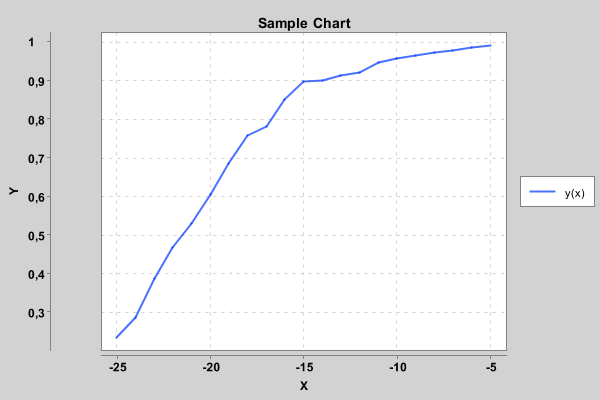
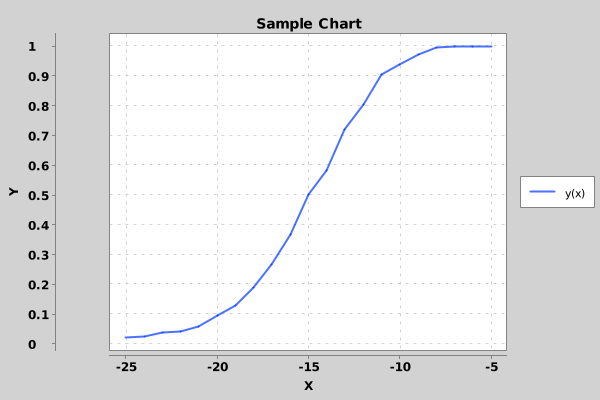
funzionerebbe

diff --git a/src/it/uniroma3/tesi/Graphics.java b/src/it/uniroma3/tesi/Graphics.java
@@ -3,14 +3,14 @@ package it.uniroma3.tesi;
 import org.apache.commons.math3.complex.Complex;
 
 import it.uniroma3.tesi.generatori.Generatore;
-import javafx.application.Application;
-import javafx.scene.Scene;
-import javafx.scene.chart.CategoryAxis;
-import javafx.scene.chart.LineChart;
-import javafx.scene.chart.NumberAxis;
-import javafx.scene.chart.XYChart;
-import javafx.scene.chart.XYChart.Series;
-import javafx.stage.Stage;
+//import javafx.application.Application;
+//import javafx.scene.Scene;
+//import javafx.scene.chart.CategoryAxis;
+//import javafx.scene.chart.LineChart;
+//import javafx.scene.chart.NumberAxis;
+//import javafx.scene.chart.XYChart;
+//import javafx.scene.chart.XYChart.Series;
+//import javafx.stage.Stage;
 
 import org.apache.commons.math3.complex.Complex;
 import org.knowm.xchart.BitmapEncoder;
@@ -21,8 +21,8 @@ import org.knowm.xchart.SwingWrapper;
 
  
  
-public class Graphics extends Application {
- 
+public class Graphics /*extends Application */{
+ /*
 	double Pfa = Math.pow(10, -2);
 	double[] SNR_dB = Generatore.generaDouble(-25, -5, 1);
 	int Ps = 1;
@@ -50,10 +50,7 @@ public class Graphics extends Application {
       //  XYChart.Series series1 = new XYChart.Series();
         Series<Number, Number> series104 = new XYChart.Series();
         series104.getData().add(new XYChart.Data(SNR_dB, sim.calcolo_PdSim(segnale_PU, soglia_sim)));
-        
-     
-    
-        
+                
         Scene scene  = new Scene(lineChart,800,600);       
         lineChart.getData().add(series104);
        
@@ -64,5 +61,5 @@ public class Graphics extends Application {
  
     public static void main(String[] args) {
         launch(args);
-    }
+    }*/
 }

diff --git a/src/it/uniroma3/tesi/Simulatore.java b/src/it/uniroma3/tesi/Simulatore.java
@@ -75,8 +75,9 @@ public class Simulatore {
 
 		for(int i=0;i<SNR_dB.getDimension();i++) {
 			double[] energiaH0 = new double[this.num_prove_H0];
-			for(int j=0;j< this.num_prove_H0;j++) {             
-				Complex[] rumore = this.generazioneRumoreGaussianoUnitario();
+			for(int j=0;j< this.num_prove_H0;j++) {
+				Complex[] rumore = this.generazioneRumoreGaussianoUnitario();		
+				rumore = AlgebraVettori.moltVN(rumore, std_rumore.getEntry(i));
 				energiaH0[j] = new CalcolatoreEnergia().calcolaEnergiaSegnale(rumore);
 			}
 			double[] energiaH0sorted = new double[energiaH0.length];
@@ -84,7 +85,7 @@ public class Simulatore {
 			soglia_sim[i] = energiaH0sorted[energiaH0sorted.length-indiceSoglia];
 			System.out.println();
 		}
-		Arrays.sort(soglia_sim);   // prima lo avevo levato 
+		//Arrays.sort(soglia_sim);   // prima lo avevo levato 
 		return soglia_sim;
 	}
 
@@ -125,6 +126,7 @@ public class Simulatore {
 			double cont_sim = AlgebraVettori.cont_sim(energiaH1,soglia_sim[i]);
 			pd_sim[i] = cont_sim/num_prove_H1;
 		}
+		
 		ArrayUtils.reverse(pd_sim);
 		return pd_sim;
 	}
@@ -175,16 +177,8 @@ public class Simulatore {
 	}
 
 	public static double[] ordinamento(double[] arr) {  
-		   int n = arr.length;
-		   for(int i=0; i<n; i++) {
-		      for(int j=1; j<(n-i); j++)
-		         if(arr[j-1] > arr[j]){  
-		            double temp = arr[j-1];  
-		            arr[j-1] = arr[j];  
-		            arr[j] = temp;  
-		         }
-		   }
-		return arr;
+		   Arrays.parallelSort(arr);
+		   return arr;
 		}  
 
 	/* getters e setters */

diff --git a/src/it/uniroma3/tesi/generatori/GeneratoreGaussianoPotenzaUnitaria.java b/src/it/uniroma3/tesi/generatori/GeneratoreGaussianoPotenzaUnitaria.java
@@ -6,6 +6,7 @@ import java.util.Collections;
 
 import org.apache.commons.math3.complex.Complex;
 
+import it.uniroma3.tesi.utils.AlgebraVettori;
 import it.uniroma3.tesi.utils.Statistica;
 import it.uniroma3.tesi.utils.StatisticaComplessa;
 
@@ -24,17 +25,10 @@ public class GeneratoreGaussianoPotenzaUnitaria extends GeneratoreGaussiano {
 	@Override
 	public Complex[] generaComplex(int n_campioni) {
 		Complex[] campioniCasuali = new GeneratoreGaussiano().generaComplex(n_campioni);
-		Complex[] campioniCasualiFinali = new GeneratoreGaussiano().generaComplex(n_campioni);
-		double std = StatisticaComplessa.std(Arrays.asList(campioniCasuali));
-		for(int i=0;i<campioniCasuali.length;i++) {
-			campioniCasuali[i] = campioniCasuali[i].divide(std);
-			for(int j=0;j<campioniCasualiFinali.length;j++) {
-				campioniCasualiFinali[j]= campioniCasuali[i].multiply(std);
-			}
-			
-		}
+		double std = StatisticaComplessa.std(Arrays.asList(campioniCasuali));		
+		campioniCasuali = AlgebraVettori.divVN(campioniCasuali, std);	
 		
-		return campioniCasualiFinali;
+		return campioniCasuali;
 	}
 
 }

diff --git a/test/it/uniroma3/tesi/utils/AlgebraVettoriTest.java b/test/it/uniroma3/tesi/utils/AlgebraVettoriTest.java
@@ -1,0 +1,41 @@
+package it.uniroma3.tesi.utils;
+
+import static org.junit.Assert.*;
+
+import org.apache.commons.math3.complex.Complex;
+import org.junit.Before;
+import org.junit.Test;
+
+public class AlgebraVettoriTest {
+
+	@Before
+	public void setUp() throws Exception {
+	}
+
+	@Test
+	public void testMoltVN() {
+		Complex[] vettore = new Complex[2];
+		vettore[0] = new Complex(1,1);
+		vettore[1] = new Complex(2,2);
+		
+		Complex[] ris = AlgebraVettori.moltVN(vettore, 2);
+		assertEquals(new Complex(2,2),ris[0]);
+		assertEquals(new Complex(4,4),ris[1]);		
+	}
+	
+	@Test
+	public void testSommaVettoriComplessi() {
+		Complex[] vettore1 = new Complex[2];
+		vettore1[0] = new Complex(1,1);
+		vettore1[1] = new Complex(2,2);
+		Complex[] vettore2 = new Complex[2];
+		vettore2[0] = new Complex(1,1);
+		vettore2[1] = new Complex(2,2);
+		
+		Complex[] ris = AlgebraVettori.sommaVettoriComplessi(vettore1, vettore2);
+		
+		assertEquals(new Complex(2,2),ris[0]);
+		assertEquals(new Complex(4,4),ris[1]);		
+	}
+
+}

diff --git a/test/it/uniroma3/tesi/utils/SignalProcessingTest.java b/test/it/uniroma3/tesi/utils/SignalProcessingTest.java
@@ -1,0 +1,28 @@
+package it.uniroma3.tesi.utils;
+
+import static org.junit.Assert.*;
+
+import org.apache.commons.math3.complex.Complex;
+import org.junit.Before;
+import org.junit.Test;
+
+public class SignalProcessingTest {
+
+	private SignalProcessing sp;
+	
+	@Before
+	public void setUp() throws Exception {
+		this.sp = new SignalProcessing();
+	}
+
+	@Test
+	public void testCalcolaEnergiaSegnale() {
+		Complex[] cmpx = new Complex[2];
+		
+		cmpx[0] = new Complex(1,2);
+		cmpx[1] = new Complex(1,1);
+		
+		assertEquals(3.5,SignalProcessing.calcolaEnergiaSegnale(cmpx),0.00001);
+	}
+
+}

diff --git a/src/it/uniroma3/tesi/utils/AlgebraVettori.java b/src/it/uniroma3/tesi/utils/AlgebraVettori.java
@@ -122,6 +122,7 @@ public class AlgebraVettori {
 		return ris;
 	}
 	
+	/** @return Moltiplicazione componenti vettore con numero TESTATO */
 	public static Complex[] moltVN(Complex[] vettore , double numero) {
 		Complex[] ris = new Complex[vettore.length];
 		for(int i=0;i< vettore.length;i++) {
@@ -182,7 +183,7 @@ public class AlgebraVettori {
 	}
 	
 
-	/* nuovo metodo */
+	/* nuovo metodo TESTATO */
 	public static Complex[] sommaVettoriComplessi(Complex[] v1,Complex[] v2) {
 		Complex[] risultato = new Complex[v1.length];
 	

diff --git a/src/it/uniroma3/tesi/generatori/GeneratoreGaussiano.java b/src/it/uniroma3/tesi/generatori/GeneratoreGaussiano.java
@@ -14,8 +14,8 @@ public class GeneratoreGaussiano extends Generatore {
 	@Override
 	public Complex[] generaComplex(int n_campioni) {
 		Complex[] campioni = new Complex[n_campioni];
-		for(int i = 0;i<n_campioni;i++) 
-			campioni[i] = new Complex(new Random().nextGaussian()*10,new Random().nextGaussian()*10);
+		for(int i= 0;i<n_campioni;i++) 
+			campioni[i] = new Complex(new Random().nextGaussian(),new Random().nextGaussian());
 		return campioni;
 	}
 	

diff --git a/test/it/uniroma3/tesi/calcolatori/CalcolatoreEnergiaTest.java b/test/it/uniroma3/tesi/calcolatori/CalcolatoreEnergiaTest.java
@@ -18,8 +18,15 @@ public class CalcolatoreEnergiaTest {
 	}
 
 	@Test
-	public void test() {
+	public void testCalcolaEnergiaSegnale1() {
 		assertEquals(2,ce.calcolaEnergiaSegnale(vett),0.001);
+	}
+	
+	@Test
+	public void testCalcolaEnergiaSegnale2() {
+		vett[0]= new Complex(1,2);
+		vett[1]= new Complex(1,1);
+		assertEquals(3.5,ce.calcolaEnergiaSegnale(vett),0.001);
 	}
 
 }

diff --git a/src/it/uniroma3/tesi/generatori/GeneratoreUniforme.java b/src/it/uniroma3/tesi/generatori/GeneratoreUniforme.java
@@ -21,6 +21,9 @@ public class GeneratoreUniforme extends Generatore {
 		return campioni;
 	}
 	
+	/** Metodo per generare il segnale
+	 * @return segnale primary user, modulato QPSK
+	 * */
 	public Complex[] generaComplexSignum(int n_campioni,double sub) {
 		Complex[] campioni = new Complex[n_campioni];
 		for(int i = 0;i<n_campioni;i++) 

diff --git a/src/it/uniroma3/tesi/utils/SignalProcessing.java b/src/it/uniroma3/tesi/utils/SignalProcessing.java
@@ -10,6 +10,7 @@ import org.apache.commons.math3.util.DoubleArray;
 
 public class SignalProcessing {
 	
+	// TESTATO
 	public static double calcolaEnergiaSegnale(Complex[] segnale) {
 		int N_campioni = segnale.length;
 		List<Complex> segnaleList = Arrays.asList(segnale);
